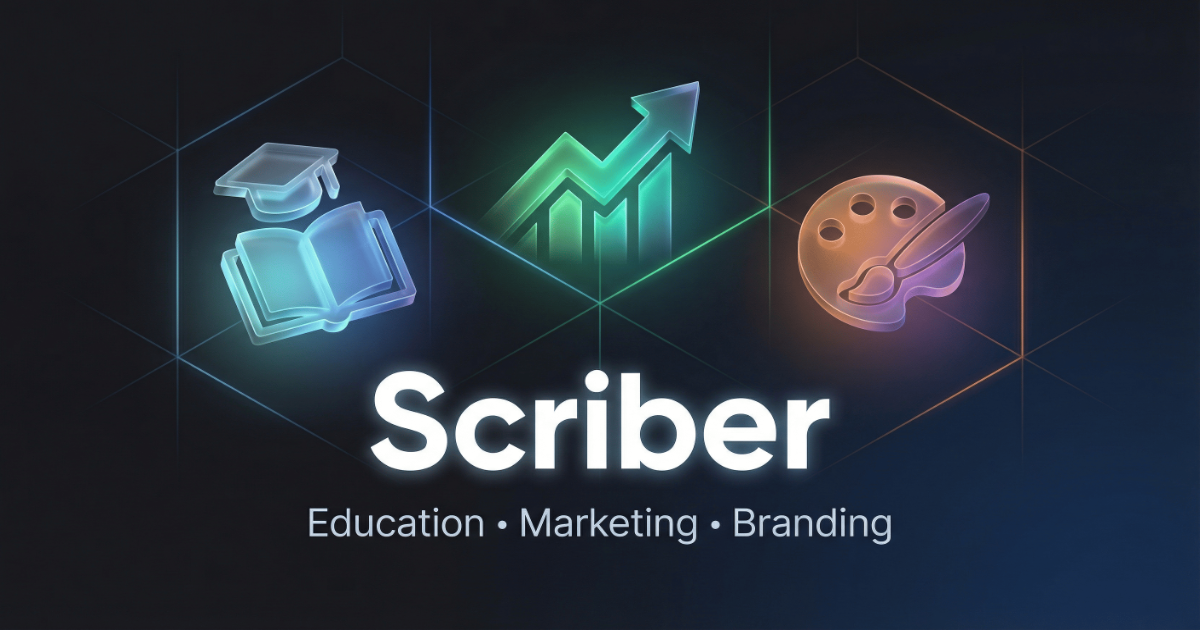
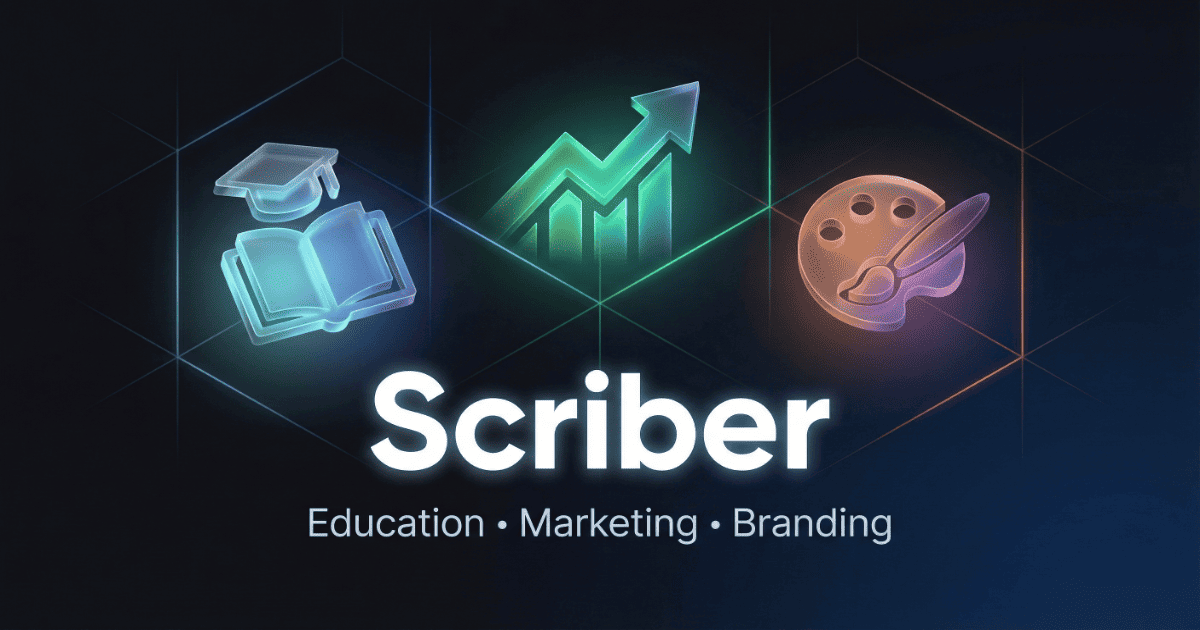
og image updated and footer social links added

diff --git a/components/footer.tsx b/components/footer.tsx
@@ -2,7 +2,21 @@
 
 import Link from "next/link";
 import Image from "next/image";
-import { ArrowRight } from "lucide-react";
+import { ArrowRight, Instagram, Mail } from "lucide-react";
+
+const WhatsAppIcon = (props: React.SVGProps<SVGSVGElement>) => (
+  <svg
+    xmlns="http://www.w3.org/2000/svg"
+    width="24"
+    height="24"
+    viewBox="0 0 24 24"
+    fill="currentColor"
+    stroke="none"
+    {...props}
+  >
+    <path d="M17.472 14.382c-.297-.149-1.758-.867-2.03-.967-.273-.099-.471-.148-.67.15-.197.297-.767.966-.94 1.164-.173.199-.347.223-.644.075-.297-.15-1.255-.463-2.39-1.475-.883-.788-1.48-1.761-1.653-2.059-.173-.297-.018-.458.13-.606.134-.133.298-.347.446-.52.149-.174.198-.298.298-.497.099-.198.05-.371-.025-.52-.075-.149-.669-1.612-.916-2.207-.242-.579-.487-.5-.669-.51-.173-.008-.371-.01-.57-.01-.198 0-.52.074-.792.372-.272.297-1.04 1.016-1.04 2.479 0 1.462 1.065 2.875 1.213 3.074.149.198 2.096 3.2 5.077 4.487.709.306 1.262.489 1.694.625.712.227 1.36.195 1.871.118.571-.085 1.758-.719 2.006-1.413.248-.694.248-1.289.173-1.413-.074-.124-.272-.198-.57-.347m-5.421 7.403h-.004a9.87 9.87 0 01-5.031-1.378l-.361-.214-3.741.982.998-3.648-.235-.374a9.86 9.86 0 01-1.51-5.26c.001-5.45 4.436-9.884 9.888-9.884 2.64 0 5.122 1.03 6.988 2.898a9.825 9.825 0 012.893 6.994c-.003 5.45-4.437 9.884-9.885 9.884m8.413-18.297A11.815 11.815 0 0012.05 0C5.495 0 .16 5.335.157 11.892c0 2.096.547 4.142 1.588 5.945L.057 24l6.305-1.654a11.882 11.882 0 005.683 1.448h.005c6.554 0 11.89-5.335 11.893-11.893a11.821 11.821 0 00-3.48-8.413Z" />
+  </svg>
+);
 
 export function Footer() {
   // Use a fixed year for server rendering to avoid hydration mismatch
@@ -36,6 +50,29 @@ export function Footer() {
                 className="inline-flex h-10 items-center justify-center border border-foreground bg-transparent px-8 text-sm font-medium text-foreground transition-colors hover:bg-foreground hover:text-background focus-visible:outline-none focus-visible:ring-1 focus-visible:ring-ring disabled:pointer-events-none disabled:opacity-50"
               >
                 Contact Us
+              </Link>
+            </div>
+            <div className="flex gap-6">
+              <Link
+                href="mailto:contact@scriber.in"
+                className="text-muted-foreground hover:text-foreground transition-colors"
+                aria-label="Email"
+              >
+                <Mail className="w-6 h-6" />
+              </Link>
+              <Link
+                href="https://www.instagram.com/scriberoffial/"
+                className="text-muted-foreground hover:text-foreground transition-colors"
+                aria-label="Instagram"
+              >
+                <Instagram className="w-6 h-6" />
+              </Link>
+              <Link
+                href="https://wa.me/918903340674"
+                className="text-muted-foreground hover:text-foreground transition-colors"
+                aria-label="WhatsApp"
+              >
+                <WhatsAppIcon className="w-6 h-6" />
               </Link>
             </div>
           </div>
